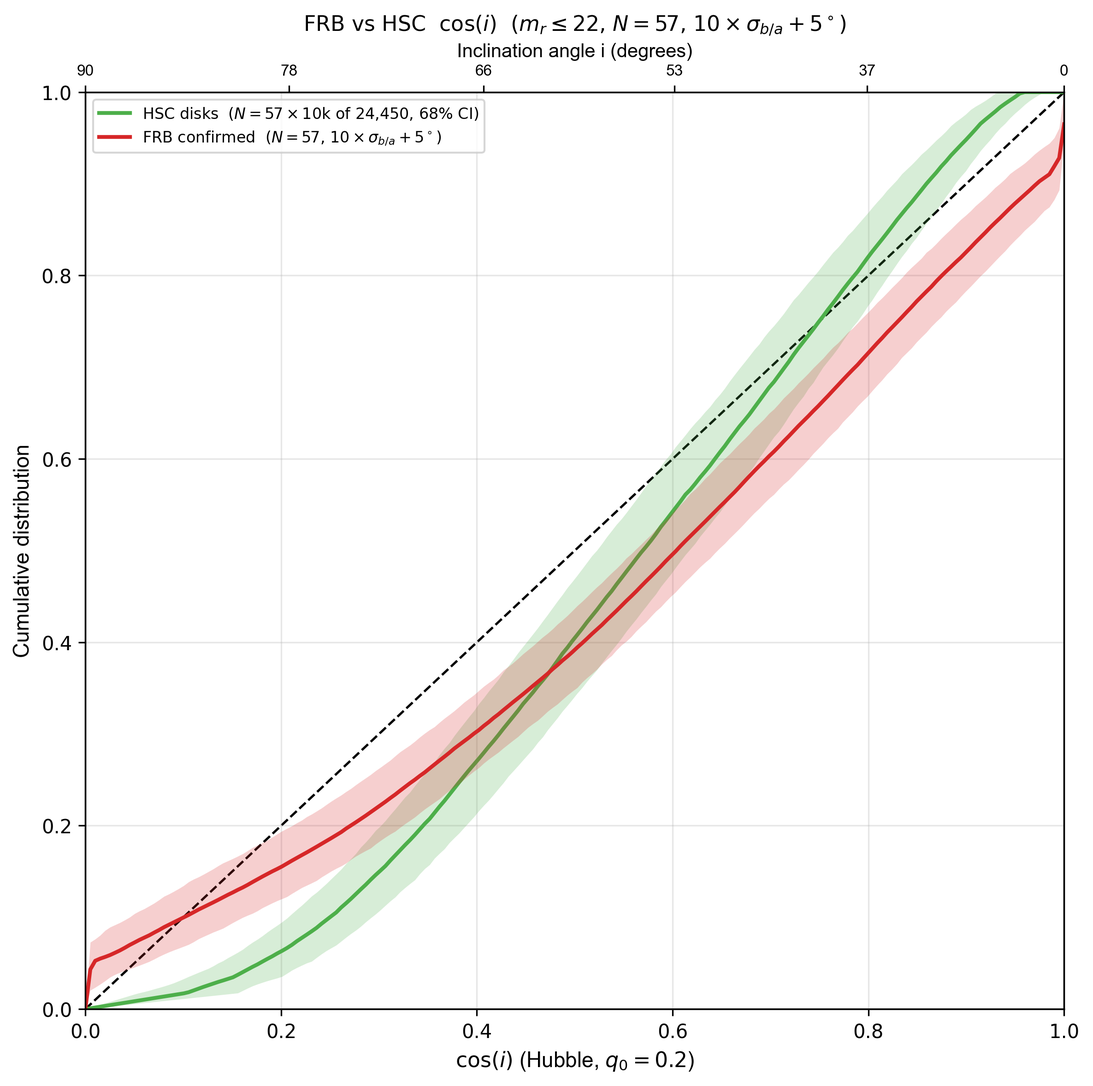
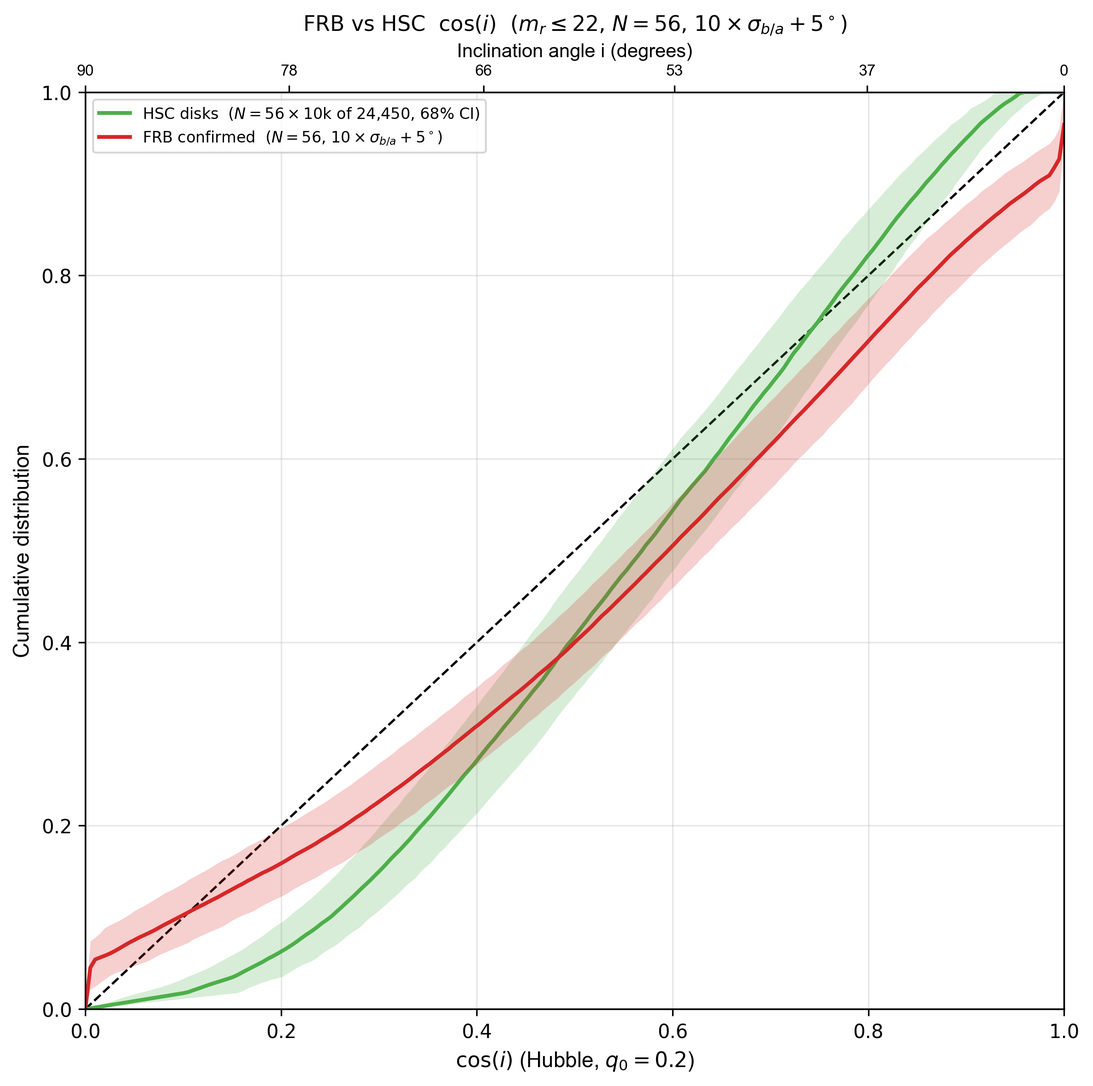
Exclude 20240615B (no published DM): science sample 56; tests, error MC, controls and correlations rerun

diff --git a/plots/plots_null/v2/frb_vs_hsc_confirmed50/TEST_RESULTS.md b/plots/plots_null/v2/frb_vs_hsc_confirmed50/TEST_RESULTS.md
@@ -1,16 +1,16 @@
 # Confirmed-50 vs HSC — statistical tests
 
-Question: could the 57 confirmed FRB-host Hubble \(\cos(i)\) values be a random draw from the HSC disk pool (\(r\le 22\), \(b/a>0.2\), \(0.4<n<1.5\))?
+Question: could the 56 confirmed FRB-host Hubble \(\cos(i)\) values be a random draw from the HSC disk pool (\(r\le 22\), \(b/a>0.2\), \(0.4<n<1.5\))?
 
 Tests use **point estimates** (winning-leg \(q \to\) Hubble \(\cos(i)\), \(q_0=0.2\)). They do **not** fold in Protocol A/B error smearing. Same convention as [`run_sdss_frb_inclination_tests.py`](../../../scripts/run_sdss_frb_inclination_tests.py).
 
 | | FRB | HSC |
 |---|---:|---:|
-| N | 57 | 24,450 |
-| median \(\cos(i)\) | 0.642 | 0.575 |
-| mean \(\cos(i)\) | 0.593 | 0.567 |
-| FRB − HSC (median) | +0.067 | |
-| FRB − HSC (mean) | +0.026 | |
+| N | 56 | 24,450 |
+| median \(\cos(i)\) | 0.626 | 0.575 |
+| mean \(\cos(i)\) | 0.587 | 0.567 |
+| FRB − HSC (median) | +0.051 | |
+| FRB − HSC (mean) | +0.020 | |
 
 ## How to read a p-value
 
@@ -25,8 +25,8 @@ p is the chance of a discrepancy **at least this large** if FRB and HSC really s
 
 Two p-values are listed:
 
-- **p (vs pool)** — textbook two-sample test of the 57 vs all 24,450 HSC galaxies. Power is high: a *small* CDF offset can make p tiny.
-- **p (matched N)** — among 10,000 random HSC draws of 57, the fraction whose statistic vs the pool is at least as large as the FRB’s. This matches the CDF envelope (same N). Prefer this when asking “is this 57 unusual among 57-galaxy HSC samples?”
+- **p (vs pool)** — textbook two-sample test of the 56 vs all 24,450 HSC galaxies. Power is high: a *small* CDF offset can make p tiny.
+- **p (matched N)** — among 10,000 random HSC draws of 56, the fraction whose statistic vs the pool is at least as large as the FRB’s. This matches the CDF envelope (same N). Prefer this when asking “is this 56 unusual among 56-galaxy HSC samples?”
 
 SciPy AD p-values are **capped at 0.25** when samples look alike (true p is at least 0.25) and floored near 0.001 when they differ strongly.
 
@@ -36,23 +36,23 @@ SciPy AD p-values are **capped at 0.25** when samples look alike (true p is at l
 
 | Test | statistic | p (vs pool) | p (matched N) | notes |
 |---|---:|---:|---:|---|
-| Kolmogorov–Smirnov | 0.119 | 0.365 | 0.361 | D = max \|F−G\| |
-| Anderson–Darling | -0.221 | >= 0.25 (SciPy cap) | 0.460 | tails weighted |
-| Cramér–von Mises | 1.945 | unreliable | 0.337 | vs-pool p broken at N2 >> N1 |
-| Kuiper | 0.172 | — | 0.326 | V = D+ + D−; p from MC only |
-| Mann–Whitney U | 748141.0 | 0.336 | — | rank-biserial = -0.074 |
-| Brunner–Munzel | -0.959 | 0.341 | — | location; unequal variance OK |
-| Epps–Singleton | 3.78 | 0.437 | — | characteristic function |
-| Welch t (means) | 0.845 | 0.402 | — | parametric; cos(i) is not Gaussian |
-| Wasserstein-1 | 0.0346 | — | 0.404 | mean \|quantile gap\|; p from MC |
+| Kolmogorov–Smirnov | 0.112 | 0.446 | 0.438 | D = max \|F−G\| |
+| Anderson–Darling | -0.366 | >= 0.25 (SciPy cap) | 0.545 | tails weighted |
+| Cramér–von Mises | 1.947 | unreliable | 0.419 | vs-pool p broken at N2 >> N1 |
+| Kuiper | 0.167 | — | 0.385 | V = D+ + D−; p from MC only |
+| Mann–Whitney U | 724300.0 | 0.453 | — | rank-biserial = -0.058 |
+| Brunner–Munzel | -0.758 | 0.452 | — | location; unequal variance OK |
+| Epps–Singleton | 3.91 | 0.418 | — | characteristic function |
+| Welch t (means) | 0.646 | 0.521 | — | parametric; cos(i) is not Gaussian |
+| Wasserstein-1 | 0.0325 | — | 0.473 | mean \|quantile gap\|; p from MC |
 
 ## Kolmogorov–Smirnov (two-sample)
 
 **How it works.** Sort both samples and form empirical CDFs \(F_{50}\) and \(G_{\mathrm{HSC}}\). The statistic is \(D=\sup_x |F_{50}(x)-G_{\mathrm{HSC}}(x)|\), the largest vertical gap. SciPy’s two-sided p uses the asymptotic (or exact, when cheap) null distribution of \(D\) under a shared continuous law.
 
-**How to read it.** \(D\) is a distance between CDFs on [0, 1]: here \(D=0.119\) means the curves never differ by more than that. p answers “would a gap this big show up often if both were draws from one law?” KS is most sensitive near the middle of the distribution and weaker in the tails than AD.
+**How to read it.** \(D\) is a distance between CDFs on [0, 1]: here \(D=0.112\) means the curves never differ by more than that. p answers “would a gap this big show up often if both were draws from one law?” KS is most sensitive near the middle of the distribution and weaker in the tails than AD.
 
-**Result.** \(D=0.119\), p (vs pool) = 0.365, p (matched N) = 0.361.
+**Result.** \(D=0.112\), p (vs pool) = 0.446, p (matched N) = 0.438.
 
 ## Anderson–Darling (k-sample)
 
@@ -60,7 +60,7 @@ SciPy AD p-values are **capped at 0.25** when samples look alike (true p is at l
 
 **How to read it.** Larger statistic → more evidence against a shared law, especially if the mismatch is at high/low \(\cos(i)\). Do **not** read the sign of the statistic (recent SciPy can return negative values when samples agree). Use the p-value. A printed p of 0.25 is a **cap** (true p ≥ 0.25).
 
-**Result.** AD = -0.221, p (vs pool) = >= 0.25 (SciPy cap), p (matched N) = 0.460.
+**Result.** AD = -0.366, p (vs pool) = >= 0.25 (SciPy cap), p (matched N) = 0.545.
 
 ## Cramér–von Mises (two-sample)
 
@@ -70,7 +70,7 @@ SciPy AD p-values are **capped at 0.25** when samples look alike (true p is at l
 
 SciPy vs-pool p is uncalibrated when N_HSC >> N_FRB. Use matched-N p.
 
-**Result.** T=1.945, p (vs pool) = ignore (1.60e-05, uncalibrated), p (matched N) = 0.337.
+**Result.** T=1.947, p (vs pool) = ignore (1.58e-05, uncalibrated), p (matched N) = 0.419.
 
 ## Kuiper (two-sample)
 
@@ -78,7 +78,7 @@ SciPy vs-pool p is uncalibrated when N_HSC >> N_FRB. Use matched-N p.
 
 **How to read it.** Sensitive to **shape** differences that flip sign (excess edge-on *and* excess face-on). A large \(V\) with a small KS \(D\) means the CDFs cross. p (matched N) is the fraction of HSC-50 draws with \(V\) at least this large vs the pool.
 
-**Result.** \(V=0.172\), p (matched N) = 0.326.
+**Result.** \(V=0.167\), p (matched N) = 0.385.
 
 ## Mann–Whitney U
 
@@ -86,7 +86,7 @@ SciPy vs-pool p is uncalibrated when N_HSC >> N_FRB. Use matched-N p.
 
 **How to read it.** p speaks only to a **shift**, not to variance or tail shape (AD/KS can fire when MWU does not). \(|r|\lesssim 0.1\) is a small location shift even if p is small against 24,450 HSC galaxies. Sign: \(r>0\) means FRB ranks **lower** \(\cos(i)\) (more edge-on) than HSC.
 
-**Result.** \(U=748141.0\), p (vs pool) = 0.336, rank-biserial \(r=-0.074\) (median \(\Delta\cos(i)=+0.067\)).
+**Result.** \(U=724300.0\), p (vs pool) = 0.453, rank-biserial \(r=-0.058\) (median \(\Delta\cos(i)=+0.051\)).
 
 ## Brunner–Munzel
 
@@ -94,7 +94,7 @@ SciPy vs-pool p is uncalibrated when N_HSC >> N_FRB. Use matched-N p.
 
 **How to read it.** Treat it as a robustness check on MWU. If BM and MWU p-values agree, the location conclusion is not an equal-spread artifact. Same p-scale.
 
-**Result.** \(W=-0.959\), p (vs pool) = 0.341.
+**Result.** \(W=-0.758\), p (vs pool) = 0.452.
 
 ## Epps–Singleton
 
@@ -102,44 +102,44 @@ SciPy vs-pool p is uncalibrated when N_HSC >> N_FRB. Use matched-N p.
 
 **How to read it.** The statistic is a \(\chi^2\)-like distance between characteristic functions. Large stat / small p → the full laws differ, without saying *where*. Use the CDF plot for direction.
 
-**Result.** \(W=3.78\), p (vs pool) = 0.437.
+**Result.** \(W=3.91\), p (vs pool) = 0.418.
 
 ## Welch \(t\) (means)
 
-**How it works.** Two-sample \(t\) on the means with unequal-variance standard errors. Assumes each sample mean is approximately normal (CLT is comfortable at \(N=57\), but \(\cos(i)\) is bounded).
+**How it works.** Two-sample \(t\) on the means with unequal-variance standard errors. Assumes each sample mean is approximately normal (CLT is comfortable at \(N=56\), but \(\cos(i)\) is bounded).
 
-**How to read it.** This is a **mean shift** test only. Do not prefer it over MWU/BM for the scientific claim; it is here because \(N=50\) is large enough that the mean is a stable summary. Mean \(\Delta\cos(i)=+0.026\).
+**How to read it.** This is a **mean shift** test only. Do not prefer it over MWU/BM for the scientific claim; it is here because \(N=50\) is large enough that the mean is a stable summary. Mean \(\Delta\cos(i)=+0.020\).
 
-**Result.** \(t=0.845\), p (vs pool) = 0.402.
+**Result.** \(t=0.646\), p (vs pool) = 0.521.
 
 ## Wasserstein-1
 
 **How it works.** Earth-mover distance between the two 1-D laws: \(\int |F^{-1}-G^{-1}|\,du\), the average absolute gap between quantile functions. Not a significance test by itself; p comes from the matched-N Monte Carlo.
 
-**How to read it.** \(W_1\) is in \(\cos(i)\) units. \(W_1=0.0346\) is the typical horizontal shift you would need to morph one CDF into the other. Compare it to the plot’s 68% band width, not to a 0–1 “agreement” scale.
+**How to read it.** \(W_1\) is in \(\cos(i)\) units. \(W_1=0.0325\) is the typical horizontal shift you would need to morph one CDF into the other. Compare it to the plot’s 68% band width, not to a 0–1 “agreement” scale.
 
-**Result.** \(W_1=0.0346\), p (matched N) = 0.404.
+**Result.** \(W_1=0.0325\), p (matched N) = 0.473.
 
 ## Directional tests (fewer edge-on hosts)
 
 Pre-specified direction: FRB hosts have fewer edge-on systems than the HSC disks, i.e. larger \(\cos(i)\). SciPy has no one-sided Anderson–Darling; AD stays the two-sided primary test above. One-sided KS and Mann–Whitney are the directional complements. Cramér–von Mises remains the two-sided optional test in the summary.
 
-**One-sided KS** (`alternative='less'`): tests whether the FRB CDF lies below the HSC CDF. \(D^-=0.119\), p (vs pool) = 0.184, p (matched N) = 0.178.
+**One-sided KS** (`alternative='less'`): tests whether the FRB CDF lies below the HSC CDF. \(D^-=0.112\), p (vs pool) = 0.226, p (matched N) = 0.219.
 
-**One-sided Mann–Whitney** (`alternative='greater'`): tests whether FRB \(\cos(i)\) is stochastically larger. \(U=748141.0\), p (vs pool) = 0.168, p (matched N) = 0.166.
+**One-sided Mann–Whitney** (`alternative='greater'`): tests whether FRB \(\cos(i)\) is stochastically larger. \(U=724300.0\), p (vs pool) = 0.226, p (matched N) = 0.229.
 
 ### \(\chi^2\) in HSC quantile bins
 
-Bins are equal-probability intervals of the HSC pool, so each bin expects \(N/n_{\mathrm{bins}}\) FRB hosts if the samples share one law. With \(N=57\), every split from 2 to 5 bins has expected counts above 5. Quartiles match the 2024 paper and are the adopted split (expected 14.2 per bin).
+Bins are equal-probability intervals of the HSC pool, so each bin expects \(N/n_{\mathrm{bins}}\) FRB hosts if the samples share one law. With \(N=56\), every split from 2 to 5 bins has expected counts above 5. Quartiles match the 2024 paper and are the adopted split (expected 14.0 per bin).
 
 | bins | expected / bin | FRB counts (low \(\cos i\) → high) | \(\chi^2\) | p |
 |---:|---:|---|---:|---:|
-| 2 | 28.5 | 23,34 | 2.12 | 0.145 |
-| 3 | 19.0 | 15,20,22 | 1.37 | 0.504 |
-| 4 adopted | 14.2 | 13,10,19,15 | 3.00 | 0.392 |
-| 5 | 11.4 | 10,8,11,17,11 | 3.96 | 0.411 |
+| 2 | 28.0 | 23,33 | 1.79 | 0.181 |
+| 3 | 18.7 | 15,20,21 | 1.11 | 0.575 |
+| 4 adopted | 14.0 | 13,10,19,14 | 3.00 | 0.392 |
+| 5 | 11.2 | 10,8,11,17,10 | 4.18 | 0.382 |
 
-Quartile matched-N p = 0.408. Counts (edge-on to face-on): 13,10,19,15.
+Quartile matched-N p = 0.404. Counts (edge-on to face-on): 13,10,19,14.
 
 ### Binomial edge-on fraction
 
@@ -147,11 +147,11 @@ Edge-on means \(i\) above a fixed cut, equivalently \(\cos i < \cos i_{\mathrm{c
 
 | cut | FRB \(k/N\) | FRB fraction | HSC fraction | one-sided p |
 |---:|---:|---:|---:|---:|
-| \(i>45^\circ\) | 35/57 | 0.614 | 0.681 | 0.172 |
-| \(i>60^\circ\) | 17/57 | 0.298 | 0.398 | 0.079 |
-| \(i>75^\circ\) | 5/57 | 0.088 | 0.102 | 0.470 |
+| \(i>45^\circ\) | 35/56 | 0.625 | 0.681 | 0.223 |
+| \(i>60^\circ\) | 17/56 | 0.304 | 0.398 | 0.094 |
+| \(i>75^\circ\) | 5/56 | 0.089 | 0.102 | 0.488 |
 
-For \(i>60^\circ\), matched-N p = 0.078 (fraction of HSC draws of 57 with an edge-on count at least as small).
+For \(i>60^\circ\), matched-N p = 0.096 (fraction of HSC draws of 56 with an edge-on count at least as small).
 
 ## Caveats
 

diff --git a/plots/plots_null/v2/host_correlations/CORRELATIONS.md b/plots/plots_null/v2/host_correlations/CORRELATIONS.md
@@ -1,4 +1,4 @@
-# Host and burst properties vs inclination (confirmed sample, N = 57)
+# Host and burst properties vs inclination (confirmed sample, N = 56)
 
 Source: `scripts/run_host_property_correlations.py`. Inclination is the winning-leg $q$ through $\cos^2 i = (q^2 - q_0^2)/(1 - q_0^2)$, $q_0 = 0.2$. Correlations are against $\cos i$ (Spearman and Kendall are identical in magnitude, opposite in sign, against $i$). MC: 2000 Protocol B draws ($q \sim N(q, \sigma_{q,B})$, $i$ += $N(0, 5^\circ)$); `frac p<0.05` uses the first 500 draws. BH $q$ is the Benjamini–Hochberg false-discovery value across the rows of Table 1. Edge-on = $i > 60^\circ$.
 
@@ -8,34 +8,34 @@ DM$_{\rm host}$ = (DM − DM$_{\rm MW,NE2001}$ − median Macquart DM$_{\rm cosm
 
 | property | literature | N | Spearman $r_S$ (p) | Kendall $\tau$ (p) | Pearson $r$ (p) | MC $r_S$ 16/50/84 | MC frac p<0.05 | BH q | median edge / face (MWU p) |
 |---|---|---|---|---|---|---|---|---|---|
-| DM_host rest (Macquart median, NE2001) | Marnoch+26; Bhardwaj+24; Li+25 | 55 | -0.065 (0.638) | -0.045 (0.632) | 0.032 (0.816) | -0.10 / -0.05 / -6.49e-04 | 0.00 | 0.791 | 244.847 / 184.420 (0.410; 16/39) |
-| DM_host observer frame | Marnoch+26 | 55 | -0.059 (0.670) | -0.041 (0.663) | 0.005 (0.970) | -0.10 / -0.04 / 0.01 | 0.00 | 0.791 | 171.806 / 146.773 (0.420; 16/39) |
-| DM_host as published | Marnoch+26; Verdi+26 | 43 | -0.131 (0.402) | -0.101 (0.341) | -0.054 (0.733) | -0.17 / -0.12 / -0.06 | 0.00 | 0.791 | 208.510 / 155.790 (0.310; 12/31) |
-| DM - DM_MW | Li+25 | 56 | -0.051 (0.707) | -0.038 (0.677) | 0.008 (0.954) | -0.08 / -0.04 / 0.01 | 0.00 | 0.791 | 441.320 / 386.840 (0.722; 17/39) |
-| DM_obs | Bhardwaj+24 | 56 | -0.060 (0.658) | -0.040 (0.666) | 0.014 (0.916) | -0.09 / -0.04 / 8.64e-04 | 0.00 | 0.791 | 491.200 / 441.200 (0.762; 17/39) |
-| log tau (scattering) | Glowacki+25; Ocker+22 | 29 | -0.167 (0.385) | -0.109 (0.409) | -0.158 (0.414) | -0.22 / -0.16 / -0.09 | 0.00 | 0.791 | 0.815 / -0.222 (0.125; 9/20) |
-| log |RM| | Verdi+26; Mannings+23 | 41 | -0.018 (0.912) | -0.001 (0.991) | -0.061 (0.706) | -0.08 / -0.01 / 0.05 | 0.00 | 0.918 | 2.211 / 2.138 (0.900; 9/32) |
-| projected offset [kpc] | Marnoch+26; Mannings+21 | 47 | -0.122 (0.413) | -0.080 (0.430) | -0.136 (0.363) | -0.16 / -0.11 / -0.06 | 0.00 | 0.791 | 5.035 / 4.260 (0.733; 12/35) |
-| offset / R_e | Marnoch+26; Gordon+25 | 45 | 0.093 (0.543) | 0.073 (0.481) | 0.162 (0.287) | 0.05 / 0.10 / 0.14 | 0.00 | 0.791 | 0.634 / 1.180 (0.037; 10/35) |
-| log M* | Leung+25; Li+25 | 53 | -0.054 (0.699) | -0.039 (0.684) | 8.53e-04 (0.995) | -0.09 / -0.05 / -0.00 | 0.00 | 0.791 | 10.170 / 10.140 (0.389; 16/37) |
-| SFR | Li+25 | 46 | 0.123 (0.417) | 0.070 (0.495) | 0.233 (0.119) | 0.08 / 0.13 / 0.17 | 0.00 | 0.791 | 1.780 / 1.770 (0.348; 13/33) |
-| log sSFR | Li+25 | 46 | 0.138 (0.362) | 0.091 (0.373) | 0.213 (0.155) | 0.09 / 0.14 / 0.18 | 0.00 | 0.791 | -9.944 / -9.713 (0.884; 13/33) |
-| log Sigma* (M*/2 pi R_e^2) | Glowacki+25 | 41 | 0.141 (0.379) | 0.103 (0.345) | 0.186 (0.244) | 0.08 / 0.14 / 0.20 | 0.00 | 0.791 | 7.977 / 8.292 (0.092; 10/31) |
-| mass-weighted age | Glowacki+25 | 30 | -0.183 (0.334) | -0.120 (0.353) | -0.223 (0.236) | -0.25 / -0.19 / -0.13 | 0.00 | 0.791 | 4.860 / 5.150 (0.839; 9/21) |
-| stellar metallicity | Glowacki+25 | 31 | 0.138 (0.460) | 0.093 (0.464) | 0.205 (0.269) | 0.07 / 0.13 / 0.19 | 0.00 | 0.791 | -0.440 / -0.520 (0.663; 9/22) |
-| u - r colour | Marnoch+26 (colour) | 25 | -0.326 (0.112) | -0.217 (0.129) | -0.364 (0.073) | -0.38 / -0.32 / -0.25 | 0.09 | 0.791 | 1.805 / 1.660 (0.475; 8/17) |
-| R_e [kpc] | Li+25 (projected area) | 42 | -0.286 (0.067) | -0.211 (0.050) | -0.308 (0.047) | -0.32 / -0.27 / -0.22 | 0.27 | 0.791 | 5.215 / 3.775 (0.059; 10/32) |
-| redshift | selection | 56 | -0.014 (0.918) | -0.011 (0.904) | 0.050 (0.713) | -0.05 / -0.01 / 0.04 | 0.00 | 0.918 | 0.223 / 0.242 (0.452; 16/40) |
-| m_r (ours) | selection; Marnoch m<21 cut | 57 | -0.203 (0.129) | -0.148 (0.106) | -0.191 (0.154) | -0.24 / -0.19 / -0.14 | 0.03 | 0.791 | 20.060 / 19.485 (0.299; 17/40) |
-| Sersic n (ours) | selection; Marnoch n<2 cut | 57 | 0.314 (0.017) | 0.220 (0.019) | 0.218 (0.103) | 0.26 / 0.30 / 0.35 | 0.84 | 0.482 | 0.700 / 1.000 (0.050; 17/40) |
-| PATH P(O|x) | association | 49 | 0.057 (0.699) | 0.036 (0.732) | 0.225 (0.120) | 0.01 / 0.06 / 0.11 | 0.00 | 0.791 | 0.990 / 0.990 (0.224; 14/35) |
-| S/N | selection | 35 | 0.192 (0.269) | 0.132 (0.267) | -0.010 (0.953) | 0.10 / 0.16 / 0.22 | 0.00 | 0.791 | 13.600 / 16.100 (0.298; 10/25) |
-| fluence | selection | 33 | 0.149 (0.407) | 0.112 (0.360) | 0.159 (0.377) | 0.06 / 0.13 / 0.18 | 0.00 | 0.791 | 16.100 / 28.000 (0.462; 8/25) |
-| width | selection; Glowacki+25 | 35 | 0.130 (0.455) | 0.086 (0.476) | 0.215 (0.215) | 0.05 / 0.12 / 0.19 | 0.00 | 0.791 | 2.600 / 5.300 (0.140; 9/26) |
-| DM_MW (NE2001) | null check | 57 | -0.118 (0.381) | -0.072 (0.428) | 0.032 (0.811) | -0.16 / -0.11 / -0.06 | 0.00 | 0.791 | 40.250 / 38.685 (0.407; 17/40) |
-| |b| Galactic | null check | 57 | 0.086 (0.525) | 0.038 (0.674) | 0.079 (0.557) | 0.03 / 0.08 / 0.13 | 0.00 | 0.791 | 38.324 / 44.606 (0.559; 17/40) |
-| Dec | null check (survey footprint) | 57 | -0.061 (0.653) | -0.036 (0.695) | -0.041 (0.764) | -0.12 / -0.07 / -0.02 | 0.00 | 0.791 | 37.616 / 3.735 (0.427; 17/40) |
-| RA | null check | 57 | -0.028 (0.834) | -0.009 (0.918) | -0.018 (0.893) | -0.07 / -0.03 / 0.02 | 0.00 | 0.898 | 183.980 / 204.512 (0.773; 17/40) |
+| DM_host rest (Macquart median, NE2001) | Marnoch+26; Bhardwaj+24; Li+25 | 55 | -0.065 (0.638) | -0.045 (0.632) | 0.032 (0.816) | -0.10 / -0.05 / -5.73e-04 | 0.00 | 0.822 | 244.847 / 184.420 (0.410; 16/39) |
+| DM_host observer frame | Marnoch+26 | 55 | -0.059 (0.670) | -0.041 (0.663) | 0.005 (0.970) | -0.10 / -0.04 / 0.00 | 0.00 | 0.822 | 171.806 / 146.773 (0.420; 16/39) |
+| DM_host as published | Marnoch+26; Verdi+26 | 43 | -0.131 (0.402) | -0.101 (0.341) | -0.054 (0.733) | -0.17 / -0.12 / -0.06 | 0.00 | 0.822 | 208.510 / 155.790 (0.310; 12/31) |
+| DM - DM_MW | Li+25 | 56 | -0.051 (0.707) | -0.038 (0.677) | 0.008 (0.954) | -0.08 / -0.03 / 0.01 | 0.00 | 0.822 | 441.320 / 386.840 (0.722; 17/39) |
+| DM_obs | Bhardwaj+24 | 56 | -0.060 (0.658) | -0.040 (0.666) | 0.014 (0.916) | -0.09 / -0.04 / 0.00 | 0.00 | 0.822 | 491.200 / 441.200 (0.762; 17/39) |
+| log tau (scattering) | Glowacki+25; Ocker+22 | 29 | -0.167 (0.385) | -0.109 (0.409) | -0.158 (0.414) | -0.22 / -0.15 / -0.10 | 0.00 | 0.822 | 0.815 / -0.222 (0.125; 9/20) |
+| log |RM| | Verdi+26; Mannings+23 | 41 | -0.018 (0.912) | -0.001 (0.991) | -0.061 (0.706) | -0.08 / -0.01 / 0.05 | 0.00 | 0.912 | 2.211 / 2.138 (0.900; 9/32) |
+| projected offset [kpc] | Marnoch+26; Mannings+21 | 46 | -0.075 (0.620) | -0.048 (0.636) | -0.114 (0.451) | -0.12 / -0.07 / -0.02 | 0.00 | 0.822 | 5.035 / 4.320 (0.822; 12/34) |
+| offset / R_e | Marnoch+26; Gordon+25 | 44 | 0.163 (0.289) | 0.121 (0.249) | 0.196 (0.203) | 0.11 / 0.16 / 0.21 | 0.00 | 0.822 | 0.634 / 1.190 (0.024; 10/34) |
+| log M* | Leung+25; Li+25 | 52 | -0.113 (0.427) | -0.078 (0.416) | -0.051 (0.720) | -0.15 / -0.10 / -0.05 | 0.00 | 0.822 | 10.170 / 10.135 (0.469; 16/36) |
+| SFR | Li+25 | 46 | 0.123 (0.417) | 0.070 (0.495) | 0.233 (0.119) | 0.08 / 0.13 / 0.17 | 0.00 | 0.822 | 1.780 / 1.770 (0.348; 13/33) |
+| log sSFR | Li+25 | 46 | 0.138 (0.362) | 0.091 (0.373) | 0.213 (0.155) | 0.09 / 0.14 / 0.18 | 0.00 | 0.822 | -9.944 / -9.713 (0.884; 13/33) |
+| log Sigma* (M*/2 pi R_e^2) | Glowacki+25 | 40 | 0.091 (0.576) | 0.072 (0.514) | 0.154 (0.343) | 0.03 / 0.09 / 0.15 | 0.00 | 0.822 | 7.977 / 8.269 (0.115; 10/30) |
+| mass-weighted age | Glowacki+25 | 30 | -0.183 (0.334) | -0.120 (0.353) | -0.223 (0.236) | -0.25 / -0.20 / -0.13 | 0.00 | 0.822 | 4.860 / 5.150 (0.839; 9/21) |
+| stellar metallicity | Glowacki+25 | 31 | 0.138 (0.460) | 0.093 (0.464) | 0.205 (0.269) | 0.07 / 0.13 / 0.19 | 0.00 | 0.822 | -0.440 / -0.520 (0.663; 9/22) |
+| u - r colour | Marnoch+26 (colour) | 25 | -0.326 (0.112) | -0.217 (0.129) | -0.364 (0.073) | -0.38 / -0.32 / -0.25 | 0.09 | 0.822 | 1.805 / 1.660 (0.475; 8/17) |
+| R_e [kpc] | Li+25 (projected area) | 41 | -0.333 (0.033) | -0.245 (0.025) | -0.330 (0.035) | -0.37 / -0.32 / -0.26 | 0.56 | 0.468 | 5.215 / 3.720 (0.052; 10/31) |
+| redshift | selection | 55 | 0.025 (0.858) | 0.015 (0.873) | 0.082 (0.554) | -0.01 / 0.04 / 0.09 | 0.00 | 0.912 | 0.223 / 0.242 (0.389; 16/39) |
+| m_r (ours) | selection; Marnoch m<21 cut | 56 | -0.170 (0.211) | -0.123 (0.181) | -0.158 (0.243) | -0.20 / -0.15 / -0.10 | 0.02 | 0.822 | 20.060 / 19.560 (0.345; 17/39) |
+| Sersic n (ours) | selection; Marnoch n<2 cut | 56 | 0.302 (0.024) | 0.210 (0.026) | 0.222 (0.100) | 0.25 / 0.29 / 0.34 | 0.74 | 0.468 | 0.700 / 1.000 (0.057; 17/39) |
+| PATH P(O|x) | association | 49 | 0.057 (0.699) | 0.036 (0.732) | 0.225 (0.120) | 0.01 / 0.06 / 0.11 | 0.00 | 0.822 | 0.990 / 0.990 (0.224; 14/35) |
+| S/N | selection | 35 | 0.192 (0.269) | 0.132 (0.267) | -0.010 (0.953) | 0.10 / 0.16 / 0.23 | 0.00 | 0.822 | 13.600 / 16.100 (0.298; 10/25) |
+| fluence | selection | 33 | 0.149 (0.407) | 0.112 (0.360) | 0.159 (0.377) | 0.06 / 0.13 / 0.19 | 0.00 | 0.822 | 16.100 / 28.000 (0.462; 8/25) |
+| width | selection; Glowacki+25 | 35 | 0.130 (0.455) | 0.086 (0.476) | 0.215 (0.215) | 0.05 / 0.12 / 0.19 | 0.00 | 0.822 | 2.600 / 5.300 (0.140; 9/26) |
+| DM_MW (NE2001) | null check | 56 | -0.080 (0.557) | -0.046 (0.616) | 0.053 (0.696) | -0.13 / -0.07 / -0.02 | 0.00 | 0.822 | 40.250 / 38.840 (0.487; 17/39) |
+| |b| Galactic | null check | 56 | 0.049 (0.719) | 0.012 (0.893) | 0.043 (0.753) | -0.01 / 0.04 / 0.10 | 0.00 | 0.822 | 38.324 / 44.559 (0.643; 17/39) |
+| Dec | null check (survey footprint) | 56 | -0.046 (0.734) | -0.025 (0.783) | -0.024 (0.861) | -0.11 / -0.06 / -0.01 | 0.00 | 0.822 | 37.616 / 6.110 (0.465; 17/39) |
+| RA | null check | 56 | 0.016 (0.910) | 0.020 (0.827) | 0.025 (0.852) | -0.03 / 0.01 / 0.07 | 0.00 | 0.912 | 183.980 / 204.565 (0.669; 17/39) |
 
 ## 2. Marnoch et al. (2026) DM$_{\rm host}$ test
 
@@ -93,11 +93,11 @@ Marnoch+2026 (CRAFT, N = 34): $r_S \approx -0.44$, $p \approx 0.01$ between rest
 
 | survey | N | median $\cos i$ |
 |---|---|---|
-| ASKAP | 26 | 0.647 |
+| ASKAP | 25 | 0.642 |
 | CHIME | 1 | 0.769 |
 | DSA-110 | 25 | 0.610 |
 | MeerKAT | 5 | 0.567 |
 
-Kruskal–Wallis over surveys with N ≥ 5 (ASKAP, DSA-110, MeerKAT): H = 0.38, p = 0.826.
+Kruskal–Wallis over surveys with N ≥ 5 (ASKAP, DSA-110, MeerKAT): H = 0.16, p = 0.923.
 
-Hosts without DM$_{\rm host}$: 20231210F, 20240615B.
+Hosts without DM$_{\rm host}$: 20231210F.

diff --git a/Publication/materials/appendix/CONTROLS_Q0_NRANGE.md b/Publication/materials/appendix/CONTROLS_Q0_NRANGE.md
@@ -8,20 +8,20 @@ $\cos^2 i = (q^2 - q_0^2)/(1 - q_0^2)$ applied to both samples with the same $q_
 
 | $q_0$ | $N_{\rm FRB}$ | $N_{\rm HSC}$ | hosts added / removed vs 0.2 | median $\cos i$ FRB / HSC | $f(i>60^\circ)$ FRB / HSC | KS $D$ | KS $p$ (2-sided) | KS $p$ (edge-on) | KS $p$ matched-$N$ | MWU $p$ (2-sided) | MWU $p$ (edge-on) |
 |---|---|---|---|---|---|---|---|---|---|---|---|
-| 0.10 | 58 | 24,976 | + 20240201A (0.18) | 0.640 / 0.585 | 0.293 / 0.377 | 0.119 | 0.356 | 0.180 | 0.356 | 0.322 | 0.161 |
-| 0.15 | 58 | 24,870 | + 20240201A (0.18) | 0.634 / 0.579 | 0.310 / 0.390 | 0.117 | 0.378 | 0.191 | 0.370 | 0.348 | 0.174 |
-| 0.20 | 57 | 24,450 | — | 0.642 / 0.575 | 0.298 / 0.398 | 0.119 | 0.365 | 0.184 | 0.358 | 0.334 | 0.167 |
-| 0.25 | 53 | 23,699 | − 20220207C (0.23), 20231120A (0.25), 20231210F (0.22), 20240213A (0.24) | 0.653 / 0.572 | 0.302 / 0.402 | 0.150 | 0.164 | 0.082 | 0.154 | 0.115 | 0.057 |
+| 0.10 | 57 | 24,976 | + 20240201A (0.18) | 0.625 / 0.585 | 0.298 / 0.377 | 0.112 | 0.437 | 0.221 | 0.430 | 0.435 | 0.218 |
+| 0.15 | 57 | 24,870 | + 20240201A (0.18) | 0.619 / 0.579 | 0.316 / 0.390 | 0.110 | 0.461 | 0.234 | 0.455 | 0.467 | 0.233 |
+| 0.20 | 56 | 24,450 | — | 0.626 / 0.575 | 0.304 / 0.398 | 0.112 | 0.446 | 0.226 | 0.437 | 0.450 | 0.225 |
+| 0.25 | 52 | 23,699 | − 20220207C (0.23), 20231120A (0.25), 20231210F (0.22), 20240213A (0.24) | 0.648 / 0.572 | 0.308 / 0.402 | 0.144 | 0.208 | 0.105 | 0.204 | 0.172 | 0.086 |
 
 ## 2. Sérsic-index window of the HSC control
 
-FRB sample fixed (57, $q_0 = 0.2$). The HSC pool is re-selected with different $n$ windows (the adopted window is $0.4 < n < 1.5$).
+FRB sample fixed (56, $q_0 = 0.2$). The HSC pool is re-selected with different $n$ windows (the adopted window is $0.4 < n < 1.5$).
 
 | $n$ window | $N_{\rm HSC}$ | median $n$ | median $\cos i$ HSC | $f(i>60^\circ)$ HSC | KS $D$ | KS $p$ (2-sided) | KS $p$ (edge-on) | KS $p$ matched-$N$ | MWU $p$ (2-sided) | MWU $p$ (edge-on) |
 |---|---|---|---|---|---|---|---|---|---|---|
-| $0.4 < n < 1.5$ | 24,450 | 0.92 | 0.575 | 0.398 | 0.119 | 0.365 | 0.184 | 0.357 | 0.336 | 0.168 |
-| $0.5 < n < 1.2$ | 18,200 | 0.85 | 0.572 | 0.405 | 0.124 | 0.322 | 0.162 | 0.325 | 0.300 | 0.150 |
-| $0.8 < n < 1.2$ | 10,652 | 0.98 | 0.581 | 0.393 | 0.112 | 0.442 | 0.224 | 0.433 | 0.406 | 0.203 |
-| $0.4 < n < 2.0$ | 31,212 | 1.05 | 0.582 | 0.386 | 0.109 | 0.471 | 0.239 | 0.455 | 0.418 | 0.209 |
+| $0.4 < n < 1.5$ | 24,450 | 0.92 | 0.575 | 0.398 | 0.112 | 0.446 | 0.226 | 0.444 | 0.453 | 0.226 |
+| $0.5 < n < 1.2$ | 18,200 | 0.85 | 0.572 | 0.405 | 0.117 | 0.397 | 0.201 | 0.381 | 0.409 | 0.205 |
+| $0.8 < n < 1.2$ | 10,652 | 0.98 | 0.581 | 0.393 | 0.105 | 0.529 | 0.271 | 0.507 | 0.535 | 0.268 |
+| $0.4 < n < 2.0$ | 31,212 | 1.05 | 0.582 | 0.386 | 0.103 | 0.561 | 0.287 | 0.548 | 0.550 | 0.275 |
 
-FRB sample: median $\cos i$ = 0.642, $f(i>60^\circ)$ = 0.298.
+FRB sample: median $\cos i$ = 0.626, $f(i>60^\circ)$ = 0.304.

diff --git a/pipeline_scripts/docs/WEAK_ASSOCIATIONS_PRODUCTION67.md b/pipeline_scripts/docs/WEAK_ASSOCIATIONS_PRODUCTION67.md
@@ -100,3 +100,4 @@ from mag-dependent analysis by §A.
 | 2026-10-18 | Repeater policy: the science sample is restricted to non-repeaters. `20220912A` (Ravi+2023 repeater; clean fit) set to `confirmed=False` in `host_confirmation.csv`; it stays in production and the master list. The only other repeater in production, `20190711A`, was already rejected; `20180916B` (rejected) is no longer a candidate on policy grounds. Science sample 56 → **55**. CHIME repeater hosts will not be added. |
 | 2026-10-18 | Literature batch of 14 non-repeaters added to master (now 118 rows): nine Dial+2026 CRAFT HTR2 bursts (`20240807A`, `20241014B`, `20250106B`, `20250511A`, `20250607C`, `20251024B`, `20260324E`, `20260331E`, `20260608D`; FRB position + $z$ published, host = our AstroPATH pick, $P\ge0.93$), MeerTRAP `20231210F`/`20231010A`, CHIME Outriggers `20250316A` (NGC 4141), DSA-110 `20220208A`. 12 new production fits (`pipeline_galfit_results.csv` now 84 rows). Triage: 11 confirmed, `20231010A` fails cuts, `20220208A` host undetected in PS1, `20250520A` has no LS/DES imaging. Science sample 55 → **66** pending the statistics refresh. Details in `HOST_TRIAGE_CASES.md`. |
 | 2026-10-18 | Policy: only hosts claimed in the literature (PATH alone is not an association). The nine Dial+2026 CRAFT hosts (and `20250520A`) have no published host, so they are excluded, removed from `pipeline_galfit_results.csv` (now 75 rows) and `production_confirmed_lit_hosts.csv`, and set to `signal` / `awaiting_host_publication` in the master list. Kept: `20231210F` (Pastor-Marazuela+2026 name G1 as putative host) and `20250316A` (NGC 4141). Science sample **57** pending the statistics refresh. |
+| 2026-10-18 | Policy: every science host must have a published DM. `20240615B` (Gordon+2025 host, $z=0.073$; radio properties deferred, no DM in any paper) set to `confirmed=False`; the fit is fine. All 56 remaining hosts have a published DM. Science sample 57 → **56**. |

diff --git a/plots/plots_null/v2/frb_vs_hsc_confirmed50/README.md b/plots/plots_null/v2/frb_vs_hsc_confirmed50/README.md
@@ -1,13 +1,13 @@
 # Confirmed-50 vs HSC MC cos(i) CDF
 
-Paper sample: `in_53` intersect `confirmed` = **57**. Winning-leg q (14 re-fit, 43 production). Hubble q0 = 0.2.
+Paper sample: `in_53` intersect `confirmed` = **56**. Winning-leg q (14 re-fit, 42 production). Hubble q0 = 0.2.
 
-HSC pool: Kawinwanichakij EXP analogue (`goodfits=1`, 0.4 < n < 1.5), photometric r <= 22, b/a > 0.2. **N = 24,450**. Each of 10,000 draws samples 57 galaxies without replacement.
+HSC pool: Kawinwanichakij EXP analogue (`goodfits=1`, 0.4 < n < 1.5), photometric r <= 22, b/a > 0.2. **N = 24,450**. Each of 10,000 draws samples 56 galaxies without replacement.
 
 | | |
 |---|---|
-| median q (FRB) | 0.660 |
-| median cos(i) (point) | 0.642 |
+| median q (FRB) | 0.645 |
+| median cos(i) (point) | 0.626 |
 | median sigma_q,A (10 x q_err) | 0.100 |
 | median sigma_q,B (sky xor q_err) | 0.011 |
 | hosts missing sky +/- | 0 (those get sigma_q,sky = 0) |
